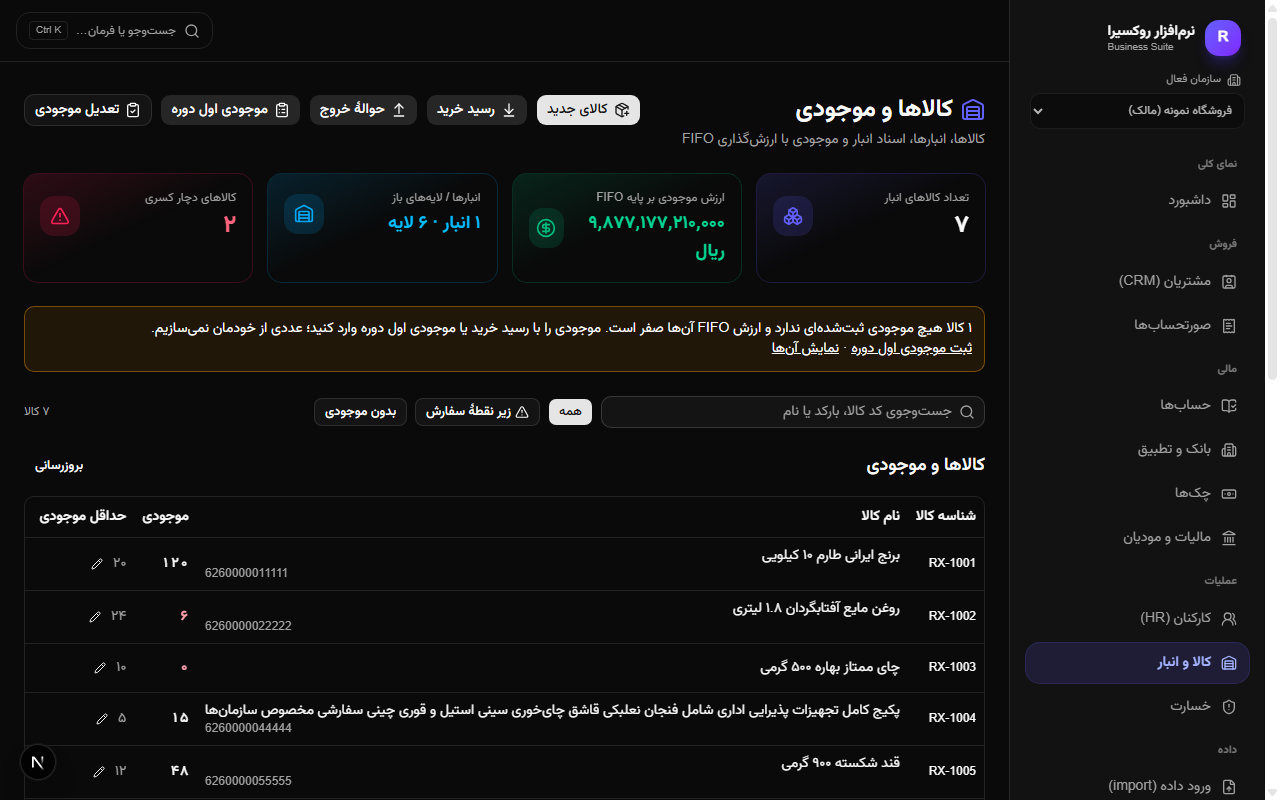
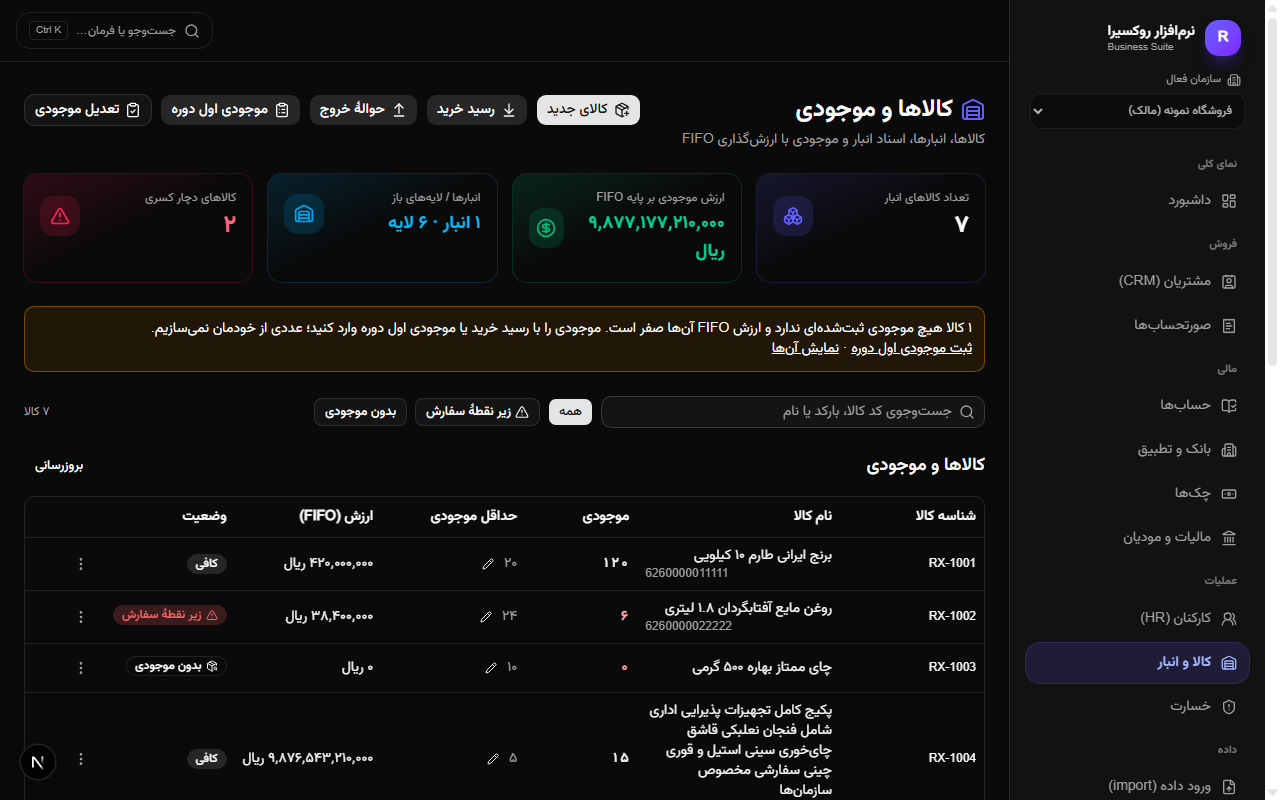
fix(frontend): inventory item name wraps so SKU, status and row menu stay visible; reshoot #306

diff --git a/output_apps/enterprise_hub/frontend/src/components/inventory/stock-items-table.tsx b/output_apps/enterprise_hub/frontend/src/components/inventory/stock-items-table.tsx
@@ -106,7 +106,7 @@ export function StockItemsTable({
                   onClick={() => onSelectItem(item.sku)}
                 >
                   <TableCell className="font-mono text-xs">{item.sku}</TableCell>
-                  <TableCell className="whitespace-nowrap">
+                  <TableCell className="max-w-[18rem] whitespace-normal">
                     {item.name}
                     {item.barcode && (
                       <div dir="ltr" className="text-xs text-muted-foreground">
